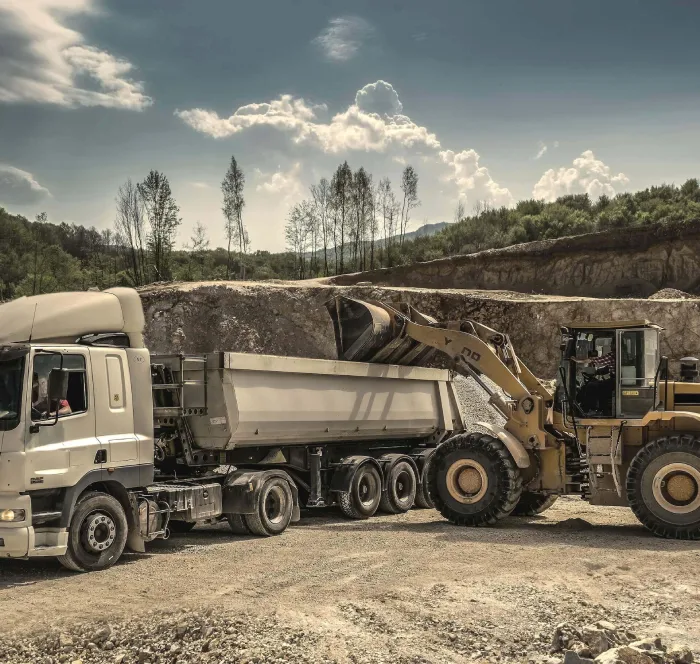
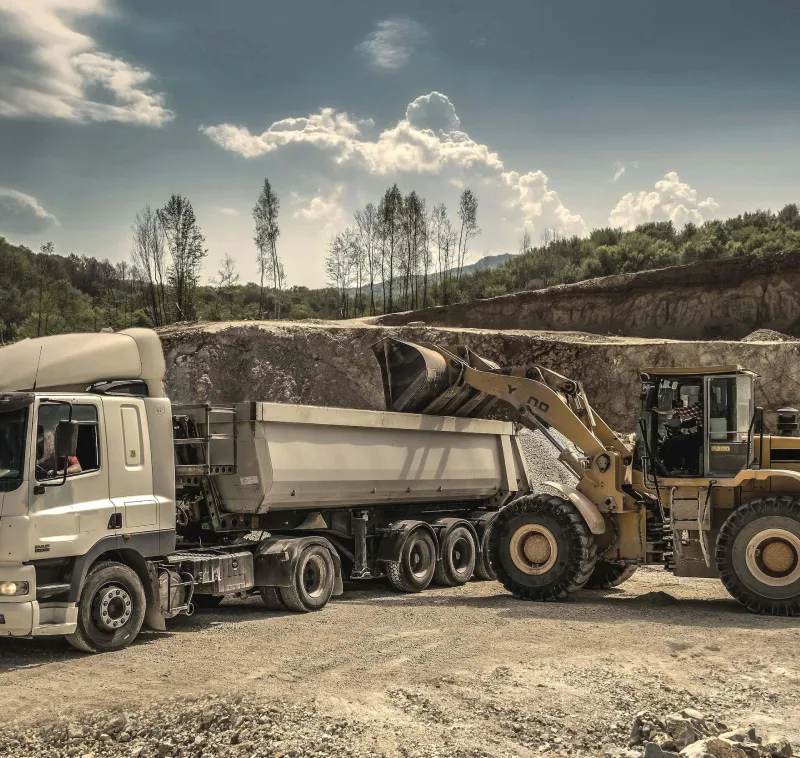
Nuevos productos + imagenes optimizadas

diff --git a/index.html b/index.html
@@ -153,7 +153,7 @@
      <div id="inicio">
       <div id="carouselExampleFade" class="carousel slide carousel-fade" data-bs-ride="carousel">
          <div class="carousel-inner">
-            <div class="carousel-item active">
+            <div class="carousel-item">
                <div class="card-carousel ci-1">
                  <div class="text-carousel" data-aos="fade-up" data-aos-once="true">
                     <h1>Constructora Comercial S.R.L.</h1>
@@ -168,7 +168,7 @@
                  </div>            
               </div>
              </div>
-           <div class="carousel-item">
+           <div class="carousel-item active">
              <div class="card-carousel ci-2">
                <div class="text-carousel" data-aos="fade-up" data-aos-once="true">
                   <h2>Constructora Comercial S.R.L.</h2>
@@ -229,7 +229,7 @@
                                        <h3>Sobre<br> Nosotros</h3>
                                     </div>
                                  <div class="slider-img d-block d-sm-none"><img loading="lazy" alt="Sobre nosotros" class=" lazyload fadein img-fluid"
-                                         height="400px" src="images/slider/construccion_contraluz.webp" title="Sobre nosotros"></div>
+                                         height="400px" src="images/slider/history.webp" title="Sobre nosotros"></div>
                                  <p class="p-3">Somos la <b>Constructora Comercial SRL</b>, aprovechamos cada nuevo producto que surge en el
                                     campo de la construcción para posibilitar que las obras se transformen en todos sus aspectos.
                                  Las innovaciones en los materiales de construcción están cambiando la forma en que las obras se realizan. Las Empresas Constructoras buscan potenciar una nueva experiencia en sus clientes con estas innovaciones.
@@ -242,7 +242,7 @@
                              <div
                                  class="col-lg-6 col-md-6 col-sm-12 col-12 d-flex align-items-center justify-content-center">
                                  <div class="slider-img d-none d-sm-flex justify-content-center"><img loading="lazy" alt="Sobre nosotros"
-                                         class="img-fluid lazyload fadein" height="400px" src="images/slider/construccion_contraluz.webp"
+                                         class="img-fluid lazyload fadein" height="400px" src="images/slider/history.webp"
                                          title="Sobre nosotros"></div>
                              </div>
                          </div>
@@ -258,7 +258,7 @@
                                         <h3>Historia</h3>
                                      </div>
                                  <div class="slider-img d-block d-sm-none"><img loading="lazy" alt="Nuestra historia" class="img-fluid lazyload fadein"
-                                         height="400px" src="images/slider/albañil.webp" title="Nuestra historia"></div>
+                                         height="400px" src="images/slider/about_us.webp" title="Nuestra historia"></div>
                                          <p class="p-3"> Con la necesidad de opciones para los clientes comunes y de menos poder adquisitivo nace nuestra organización bautizada como <b>Constructora Comercial SRL</b> en el año 
                                           2007, fundada por <b>Ricardo Alberto Ruloff</b> en la Provincia de Formosa. Provincia que, por aquel entonces, no contaba con una Empresa de Materiales de Construcción especializada en ofrecer productos de calidad y precios accesibles a gente de escasos recursos económicos.</p>
                                  <div class="text-left pl-4 pr-4">
@@ -269,7 +269,7 @@
                              <div
                                  class="col-lg-6 col-md-6 col-sm-12 col-12 d-flex align-items-center justify-content-center">
                                  <div class="slider-img d-none d-sm-flex justify-content-center"><img loading="lazy" alt="Nuestra historia"
-                                         class="img-fluid lazyload fadein" height="400px" src="images/slider/albañil.webp"
+                                         class="img-fluid lazyload fadein" height="400px" src="images/slider/about_us.webp"
                                          title="Nuestra historia"></div>
                              </div>
                            </div>
@@ -285,7 +285,7 @@
                                        <h3>Nuestra <br> Actualidad</h3>
                                     </div>
                                    <div class="slider-img d-block d-sm-none"><img loading="lazy" alt="Nuestra actualidad" class="img-fluid lazyload fadein"
-                                           height="400px" src="images/slider/construccion.webp" title="Nuestra actualidad"></div>
+                                           height="400px" src="images/slider/construccion_contraluz.webp" title="Nuestra actualidad"></div>
                                    <p class="p-3">Hoy en día nuestro <b>Corralón de Materiales</b> alcanzó un nivel de relevancia en Formosa Capital y en la sociedad formoseña en general, estamos muy bien posicionados a comparación de nuestros primeros años. Pese a las 
                                     dificultades económicas del país, siempre nos hemos mantenido firmes en nuestro compromiso con los clientes y sobre todo con los productos que ofrecemos, siempre poniendo el factor calidad-precio como
                                     prioridad.
@@ -298,7 +298,7 @@
                                <div
                                    class="col-lg-6 col-md-6 col-sm-12 col-12 d-flex align-items-center justify-content-center">
                                    <div class="slider-img d-none d-sm-flex justify-content-center"><img loading="lazy" alt="Nuestra actualidad"
-                                           class="img-fluid lazyload fadein" height="400px" src="images/slider/construccion.webp"
+                                           class="img-fluid lazyload fadein" height="400px" src="images/slider/construccion_contraluz.webp"
                                            title="Nuestra actualidad"></div>
                                </div>
                                
@@ -364,6 +364,108 @@
                   <div class="cards-productos" data-aos="fade-up" data-aos-once="true">
                      <div class="container-fluid">
                      <div class="row">
+                        <div class="col-12 col-lg-5 col-md-5 col-sm-5 col-img d-flex justify-content-center align-items-center"
+                        data-aos="fade-up" data-aos-once="true">
+                           <div class="img-prodX ">
+                              <div class="prod-img">
+                                 <img src="./images/slider/ladrillos-prod.webp" loading="lazy" alt="8x18x24 - 8x18x25 - 8x18x30 - 8x18x31 - 8x18x33 - 10x15x25 - 11x16x23 - 12x18x24 - 12x18x25 - 12x18x30 - 12x18x31 - 12x18x33 - 18x18x24 - 18x18x25 - 18x18x30 - 18x18x31 - 18x18x33 - Peine 12 - Peine 18 - Rejilla - Ladrillos Común">
+                              </div>
+                           </div>
+                        </div>
+                        <div class="col-12 col-lg-7 col-md-7 col-sm-7 desc-prod">
+                           <div class="container">
+                           <h3>Ladrillos</h3>
+                           <p>Ladrillos 8x18x24 - Ladrillos 8x18x25 - Ladrillos 8x18x30 - Ladrillos 8x18x31 - Ladrillos 8x18x33 
+                              - Ladrillos 10x15x25 - Ladrillos 11x16x23 - Ladrillos 12x18x24 - Ladrillos 12x18x25 - Ladrillos 12x18x30 
+                              - Ladrillos 12x18x31 - Ladrillos 12x18x33 - Ladrillos 18x18x24 - Ladrillos 18x18x25 - Ladrillos 18x18x30 
+                              - Ladrillos 18x18x31 - Ladrillos 18x18x33 
+                              - Ladrillos Peine 12 - Ladrillos Peine 18 - Ladrillos Rejilla - Ladrillos Común</p>
+                           </div>
+                        </div>
+                     </div>
+                     </div>
+                  </div>
+               </div>
+               <div class="col-12 col-lg-12 col-md-12 col-sm-12">
+                  <div class="cards-productos" data-aos="fade-up" data-aos-once="true">
+                     <div class="container-fluid">
+                     <div class="row">
+                        <div class="col-12 col-lg-5 col-md-5 col-sm-5 col-img d-flex justify-content-center align-items-center"
+                        data-aos="fade-up" data-aos-once="true">
+                           <div class="img-prodX ">
+                              <div class="prod-img">
+                                 <img src="./images/slider/cal-2.webp" loading="lazy" alt="Loma Negra - Holcim - Avellaneda - Cemento Suelto - Cal Común 25kl - Cal Común 20kl - FGH 25kl - Cal Avellaneda - Pegamento Weber - Pegamento Klaukol - Hidrofugo X1 - Hidrofugo X4 - Hidrofugo X10 -Hidrofugo X20">
+                              </div>
+                           </div>
+                        </div>
+                        <div class="col-12 col-lg-7 col-md-7 col-sm-7 desc-prod">
+                           <div class="container">
+                           <h3>Materiales de Construcción</h3>
+                           <p>Loma Negra - Holcim - Avellaneda - Cemento Suelto 
+                              - Cal Común 25kl - Cal Común 20kl - FGH 25kl - Cal Avellaneda 
+                              - Pegamento Weber - Pegamento Klaukol - Hidrofugo X1 
+                              - Hidrofugo X4 - Hidrofugo X10 -Hidrofugo X20</p>
+                           </div>
+                        </div>
+                     </div>
+                     </div>
+                  </div>
+               </div>
+               <div class="col-12 col-lg-12 col-md-12 col-sm-12">
+                  <div class="cards-productos" data-aos="fade-up" data-aos-once="true">
+                     <div class="container-fluid">
+                     <div class="row">
+                        <div class="col-12 col-lg-5 col-md-5 col-sm-5 col-img d-flex justify-content-center align-items-center"
+                        data-aos="fade-up" data-aos-once="true">
+                           <div class="img-prodX ">
+                              <div class="prod-img">
+                                 <img src="./images/slider/iron.webp" loading="lazy" alt="Alambre Atar - Hierros 4,2 - Hierros 6 - Hierros 8 - Hierros 10 - Hierros 12 - Hierros 16 - Perfil 80x6 - Perfil 80x12 - Perfil 100x6 - Perfil 100x12 - Perfil 120x12 - Chapas Cinc 1.00x1 27 - Chapas Cinc 1.00x1 25 - Chapas Cinc 0.90x1 27 - Chapas Cinc 0.90x1 25 - AutoPerforantes - Electrodos 2,5 - Electrodos 3,00 - Discos Cortes">
+                              </div>
+                           </div>
+                        </div>
+                        <div class="col-12 col-lg-7 col-md-7 col-sm-7 desc-prod">
+                           <div class="container">
+                           <h3>Metalurgica</h3>
+                           <p>Alambre Atar - Hierros 4,2 - Hierros 6 - Hierros 8 
+                              - Hierros 10 - Hierros 12 - Hierros 16 - Perfil 80x6 
+                              - Perfil 80x12 - Perfil 100x6 - Perfil 100x12 
+                              - Perfil 120x12 - Chapas Cinc 1.00x1 27 - Chapas Cinc 1.00x1 25 
+                              - Chapas Cinc 0.90x1 27 - Chapas Cinc 0.90x1 25 
+                              - AutoPerforantes - Electrodos 2,5 - Electrodos 3,00 - Discos Cortes</p>
+                           </div>
+                        </div>
+                     </div>
+                     </div>
+                  </div>
+               </div>
+               <div class="col-12 col-lg-12 col-md-12 col-sm-12">
+                  <div class="cards-productos" data-aos="fade-up" data-aos-once="true">
+                     <div class="container-fluid">
+                     <div class="row">
+                        <div class="col-12 col-lg-5 col-md-5 col-sm-5 col-img d-flex justify-content-center align-items-center"
+                        data-aos="fade-up" data-aos-once="true">
+                           <div class="img-prodX ">
+                              <div class="prod-img prod-aridos">
+                                 <img src="./images/slider/arena.webp" loading="lazy" alt="Arena x Metro - Arena x 1/2 - Arena Bolsas - Piedras x Metro - Piedras x 1/2 - Piedras x Bolsas - Membranas - Filtros - Baldes - Pala Ancha - Pala Punta - Lajas">
+                              </div>
+                           </div>
+                        </div>
+                        <div class="col-12 col-lg-7 col-md-7 col-sm-7 desc-prod">
+                           <div class="container">
+                           <h3>Arido/Varios</h3>
+                           <p>Arena x Metro - Arena x 1/2 - Arena Bolsas - Piedras x Metro 
+                              - Piedras x 1/2 - Piedras x Bolsas - Membranas - Filtros
+                               - Baldes - Pala Ancha - Pala Punta - Lajas</p>
+                           </div>
+                        </div>
+                     </div>
+                     </div>
+                  </div>
+               </div>
+               <!-- <div class="col-12 col-lg-12 col-md-12 col-sm-12">
+                  <div class="cards-productos" data-aos="fade-up" data-aos-once="true">
+                     <div class="container-fluid">
+                     <div class="row">
                         <div class="col-12 col-lg-5 col-md-5 col-sm-5 img-prod d-flex justify-content-center align-items-center"
                         data-aos="fade-up" data-aos-once="true">
                            <div class="prod-1">
@@ -381,7 +483,8 @@
                      </div>
                      </div>
                   </div>
-               </div>
+               </div> -->
+               
                <div class="col-12 col-lg-6 col-md-12 col-sm-12">
                   <div class="cards-productos"  data-aos="fade-up" data-aos-once="true">
                      <div class="container-fluid">

diff --git a/css/n7styles.css b/css/n7styles.css
@@ -316,9 +316,33 @@ nav.fixed {
     ;
 }
 
+.col-img{
+    padding:0;
+    overflow:hidden;
+}
+
 .img-prod{
     height:350px;
     padding:0;  
+}
+
+.img-prodX{
+    height:350px;
+    width:100%;
+    padding:0;
+    position:relative;
+    top:-10px;
+    left:0;
+}
+.prod-img{
+    width:100%;
+    height:100%;
+}
+.prod-img img{
+    object-fit:cover;
+    aspect-ratio:1/1;
+    object-position:center;
+    
 }
 
 .prod-1{
@@ -328,7 +352,7 @@ nav.fixed {
     width:100%;   
 }
 .prod-2{
-    background:url(../images/slider/construccion_site2.webp);
+    background:url(../images/slider/albañil.webp);
     background-size: cover;
     background-position:center;
     height:100%;   
@@ -716,8 +740,14 @@ input::placeholder,textarea::placeholder{
 
 /* Tablets y phablets */
 @media only screen and (min-width: 576px) and (max-width: 767px){
-/* ---------------Navbar--------------- */
     
+
+    /* --------------------------- Productos ---------------------------- */
+
+    .desc-prod, .img-prod, .img-prodX{
+        height:400px;
+    }
+
 }
 
 /*Celulares*/
@@ -739,6 +769,19 @@ input::placeholder,textarea::placeholder{
         height:200px;
         /* padding:0;    */
     }
+
+    
+    .img-prodX{
+        height:200px;
+        /* top:-10px; */
+        /* left:0; */
+    }
+    
+    .prod-aridos{
+        position:relative;
+        top:-60px;
+    }
+
     .prod-1{
         background-size: cover;
         background-position: 50% 75%;
@@ -766,7 +809,6 @@ input::placeholder,textarea::placeholder{
     /* --------------------------- Inicio ---------------------------- */
     .ci-1{
         background:linear-gradient(rgba(5,7,8, 0.5), rgba(5, 7, 8, 0.5)), url(../images/slider/slider_img2_mobil.webp);
-        /* background-position: bottom; */
         background-size:cover;
     }
     .ci-2{
